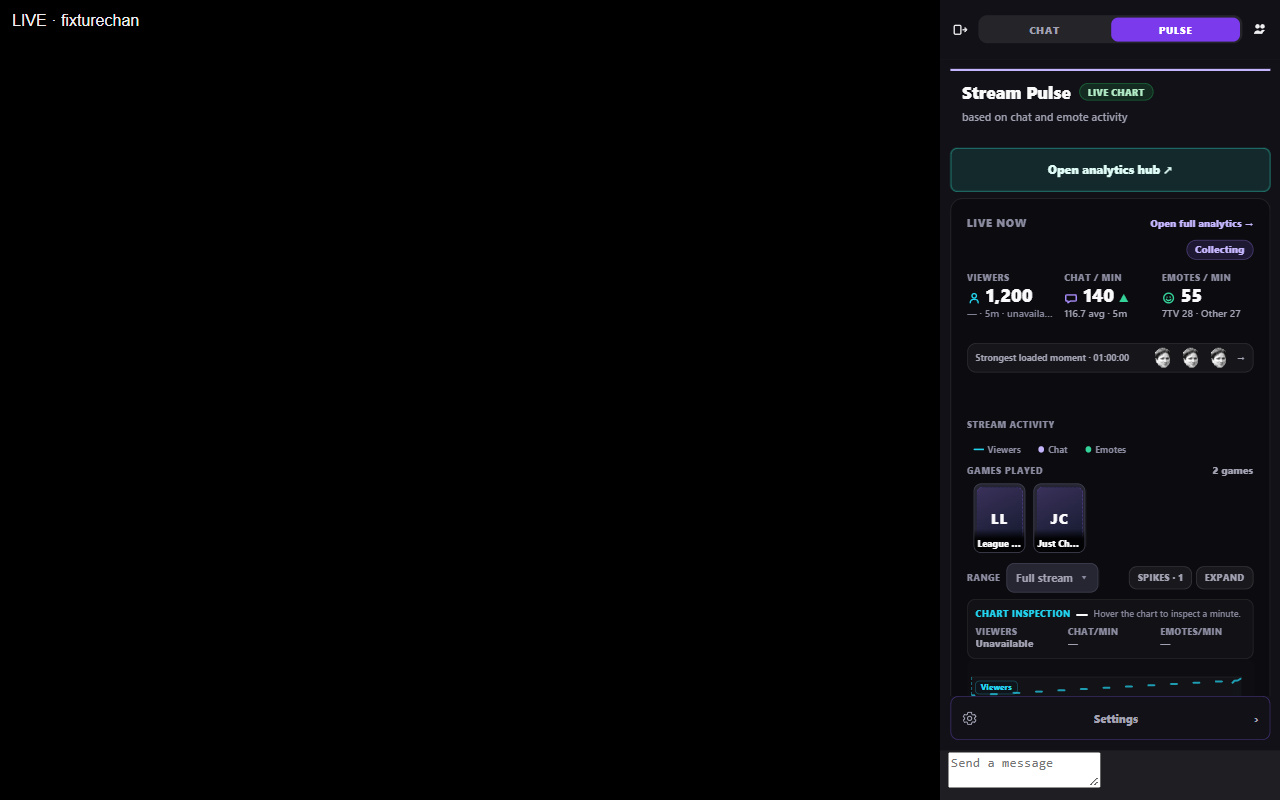
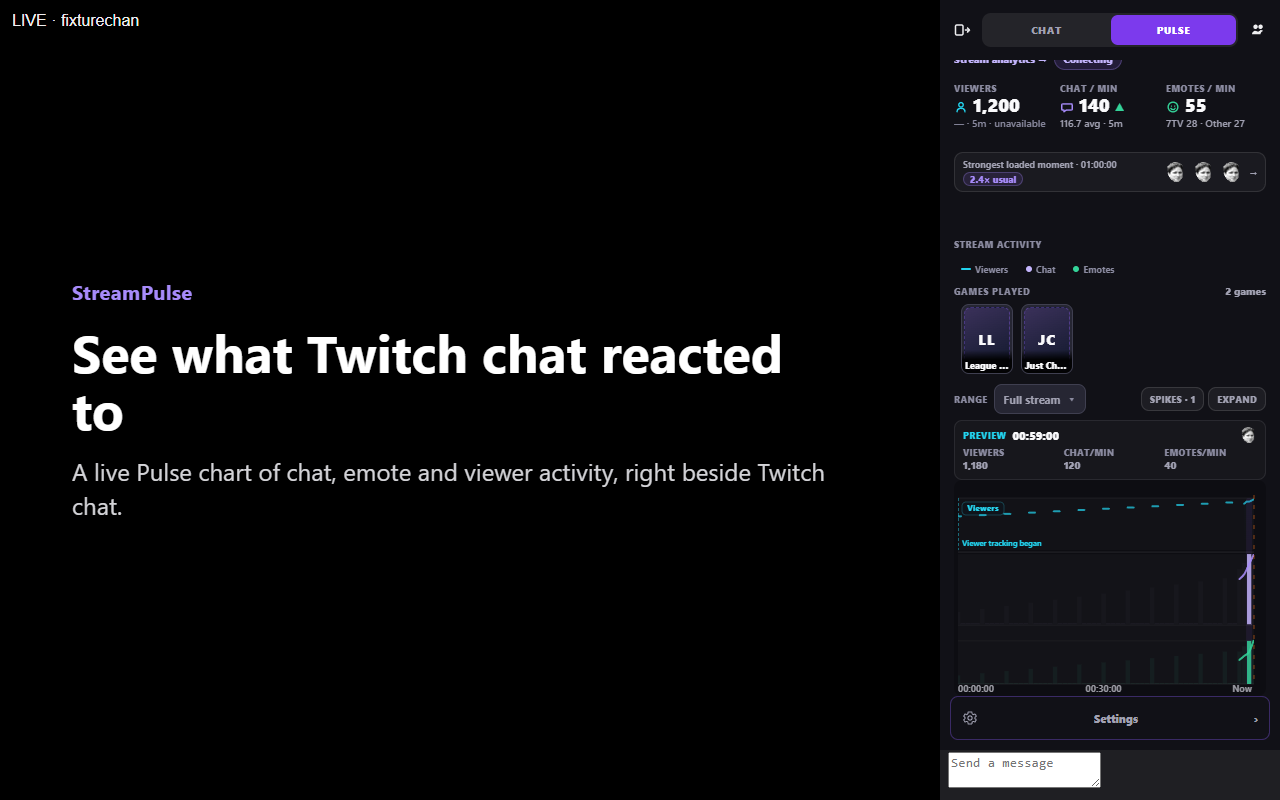
store(cws): regenerate the 0.2.2 screenshots from the RC panel
Deliberately regenerated store/cws/screenshots from the 0.2.2 RC (every
0.2.2 PR merged locally) on the mocked Twitch fixture; the 2026-09-17 set
predated the RC and was mostly a black page with "Viewers Unavailable".

- 01-live-pulse: the live chart with a minute readout and the strength pill
- 02-top-moments: Top Moments with a picked moment's card open
- 03-vod-replay: a VOD recap
- 04-quick-settings: Watching card and the Supporter card
- 05-help-feedback: Help & Feedback in the store build's settings page

02-coverage and 04-most-reacted are replaced. Each frame carries a
one-line caption on the fixture's stand-in video area, outside the
extension. Frames are a synthetic fixture channel: no real streamer, face
or email. The README and listing doc say which build each frame used.

The Updates & Changelog win32 baseline (full-settings-changelog) is
refreshed for the new notes and labels after viewing the actual image.

diff --git a/tests/e2e/specs/cws-extension-screenshots.mocked.spec.ts b/tests/e2e/specs/cws-extension-screenshots.mocked.spec.ts
@@ -44,6 +44,30 @@ async function hideAllScrollbars(page: import('@playwright/test').Page) {
   }, PULSE_ROOT_ID)
 }
 
+/**
+ * A caption on the fixture page's stand-in video area, outside the extension:
+ * the panel is only the right 340 px of a 1280 px frame, so each store frame
+ * says in one line what it shows. Nothing inside the extension is altered.
+ */
+async function addCaption(page: import('@playwright/test').Page, title: string, body: string) {
+  await page.evaluate(({ title, body }) => {
+    const box = document.createElement('div')
+    box.setAttribute('data-cws-caption', 'true')
+    box.style.cssText = 'position:fixed;left:72px;top:50%;transform:translateY(-50%);max-width:760px;z-index:1;font-family:Inter,"Segoe UI",system-ui,sans-serif;color:#fff;pointer-events:none'
+    const mark = document.createElement('div')
+    mark.textContent = 'StreamPulse'
+    mark.style.cssText = 'font-size:20px;font-weight:700;letter-spacing:0.02em;color:#a78bfa;margin-bottom:18px'
+    const heading = document.createElement('div')
+    heading.textContent = title
+    heading.style.cssText = 'font-size:52px;line-height:1.1;font-weight:700;margin-bottom:18px'
+    const line = document.createElement('div')
+    line.textContent = body
+    line.style.cssText = 'font-size:24px;line-height:1.4;font-weight:400;color:#d4d4d8'
+    box.append(mark, heading, line)
+    document.body.append(box)
+  }, { title, body })
+}
+
 async function writeExactStoreShot(page: import('@playwright/test').Page, filename: string) {
   mkdirSync(OUT, { recursive: true })
   await page.setViewportSize({ width: W, height: H })
@@ -148,11 +172,12 @@ test.describe('CWS extension-on-Twitch screenshots', () => {
     await assertPulseShadowContains(extension.page, /Viewers|Chat \/ min|Collecting|1,180|Just Chatting/i)
     // Bring the chart into view and point at a minute, so the readout shows.
     const chart = extension.page.locator(`#${PULSE_ROOT_ID} svg[data-testid="pulse-overview-chart"]`)
-    await chart.evaluate(element => element.scrollIntoView({ block: 'center' }))
+    await chart.evaluate(element => element.scrollIntoView({ block: 'end' }))
     await extension.page.waitForTimeout(300)
     const box = await chart.boundingBox()
-    if (box) await extension.page.mouse.move(box.x + box.width * 0.62, box.y + box.height * 0.45)
+    if (box) await extension.page.mouse.move(box.x + box.width * 0.94, box.y + box.height * 0.6)
     await extension.page.waitForTimeout(400)
+    await addCaption(extension.page, 'See what Twitch chat reacted to', 'A live Pulse chart of chat, emote and viewer activity, right beside Twitch chat.')
     await writeExactStoreShot(extension.page, '01-live-pulse.png')
   })
 
@@ -179,6 +204,7 @@ test.describe('CWS extension-on-Twitch screenshots', () => {
     await extension.page.waitForTimeout(400)
     await heading.evaluate(element => element.scrollIntoView({ block: 'start' }))
     await extension.page.waitForTimeout(300)
+    await addCaption(extension.page, 'Jump to the moments that mattered', 'Top Moments ranks the strongest reactions. Pick one to open its card and jump in the player.')
     await writeExactStoreShot(extension.page, '02-top-moments.png')
   })
 
@@ -196,6 +222,7 @@ test.describe('CWS extension-on-Twitch screenshots', () => {
     await openTwitchVod(extension.page)
     await waitForPulseRoot(extension.page, 30_000)
     await assertPulseShadowContains(extension.page, /Pulse|VOD|Replay|Past streams|Chat|STREAM RECAP|Peak/i)
+    await addCaption(extension.page, 'Recaps for past streams', 'Replay Pulse charts the chat and emotes of a broadcast StreamPulse tracked.')
     await writeExactStoreShot(extension.page, '03-vod-replay.png')
   })
 
@@ -219,6 +246,7 @@ test.describe('CWS extension-on-Twitch screenshots', () => {
     await expect(card).toBeVisible()
     // The Supporter card's chat stage is scripted motion: let it draw its first lines.
     await extension.page.waitForTimeout(2500)
+    await addCaption(extension.page, 'Settings one click away', 'See what Pulse is charting, and preview Pulse Supporter cosmetics. Sign-ups are not open yet.')
     await writeExactStoreShot(extension.page, '04-quick-settings.png')
   })
 

diff --git a/store/cws/README.md b/store/cws/README.md
@@ -80,9 +80,14 @@ common reject / blank-toolbar failure mode. `icons:cws` asserts PNG color type 6
 
 ## Screenshots (exact 1280×800, full bleed, no scrollbars)
 
-**0.2.2 upload set**, regenerated 2026-10-09 from the extension RC build on the
-mocked Twitch fixture (see `screenshots/manifest.json`). Every frame is a
-synthetic fixture channel: no real streamer, face or email.
+**0.2.2 upload set**, regenerated 2026-10-09 from the extension RC (all 0.2.2
+PRs merged locally) on the mocked Twitch fixture (see `screenshots/manifest.json`).
+Frames 01-04 use the RC's development-target `dist/`, the only target the
+mocked Twitch harness runs (the panel code is the store build's); frame 05 is
+the store-target (`EXTENSION_TARGET=cws`) settings page, so it has no Developer
+section. Each frame has a one-line caption on the fixture's stand-in video
+area, outside the extension. Every frame is a synthetic fixture channel: no
+real streamer, face or email.
 
 | File | Content |
 |------|---------|

diff --git a/docs/pulse-extension/chrome-web-store-listing.md b/docs/pulse-extension/chrome-web-store-listing.md
@@ -105,10 +105,12 @@ Show Twitch chat and emote activity for the stream or VOD you are watching, in a
 | Store icon | `store/cws/icons/icon128.png` | 128×128 RGBA |
 | Small promo tile | `store/cws/icons/small-promo-440x280.png` | 440×280 |
 
-The 0.2.2 screenshots were regenerated on 2026-10-09 from the extension RC
-build on the mocked Twitch fixture (synthetic channel, no real streamer or
-email), by `tests/e2e/specs/cws-extension-screenshots.mocked.spec.ts`. Mocked
-captures are not live evidence.
+The five 0.2.2 screenshots (live chart, Top Moments card, VOD recap, quick
+settings, Help & Feedback) were regenerated on 2026-10-09 from the extension
+RC on the mocked Twitch fixture (synthetic channel, no real streamer or email)
+by `tests/e2e/specs/cws-extension-screenshots.mocked.spec.ts`; see
+`store/cws/README.md` for which build each frame used. Mocked captures are not
+live evidence.
 
 ---
 
